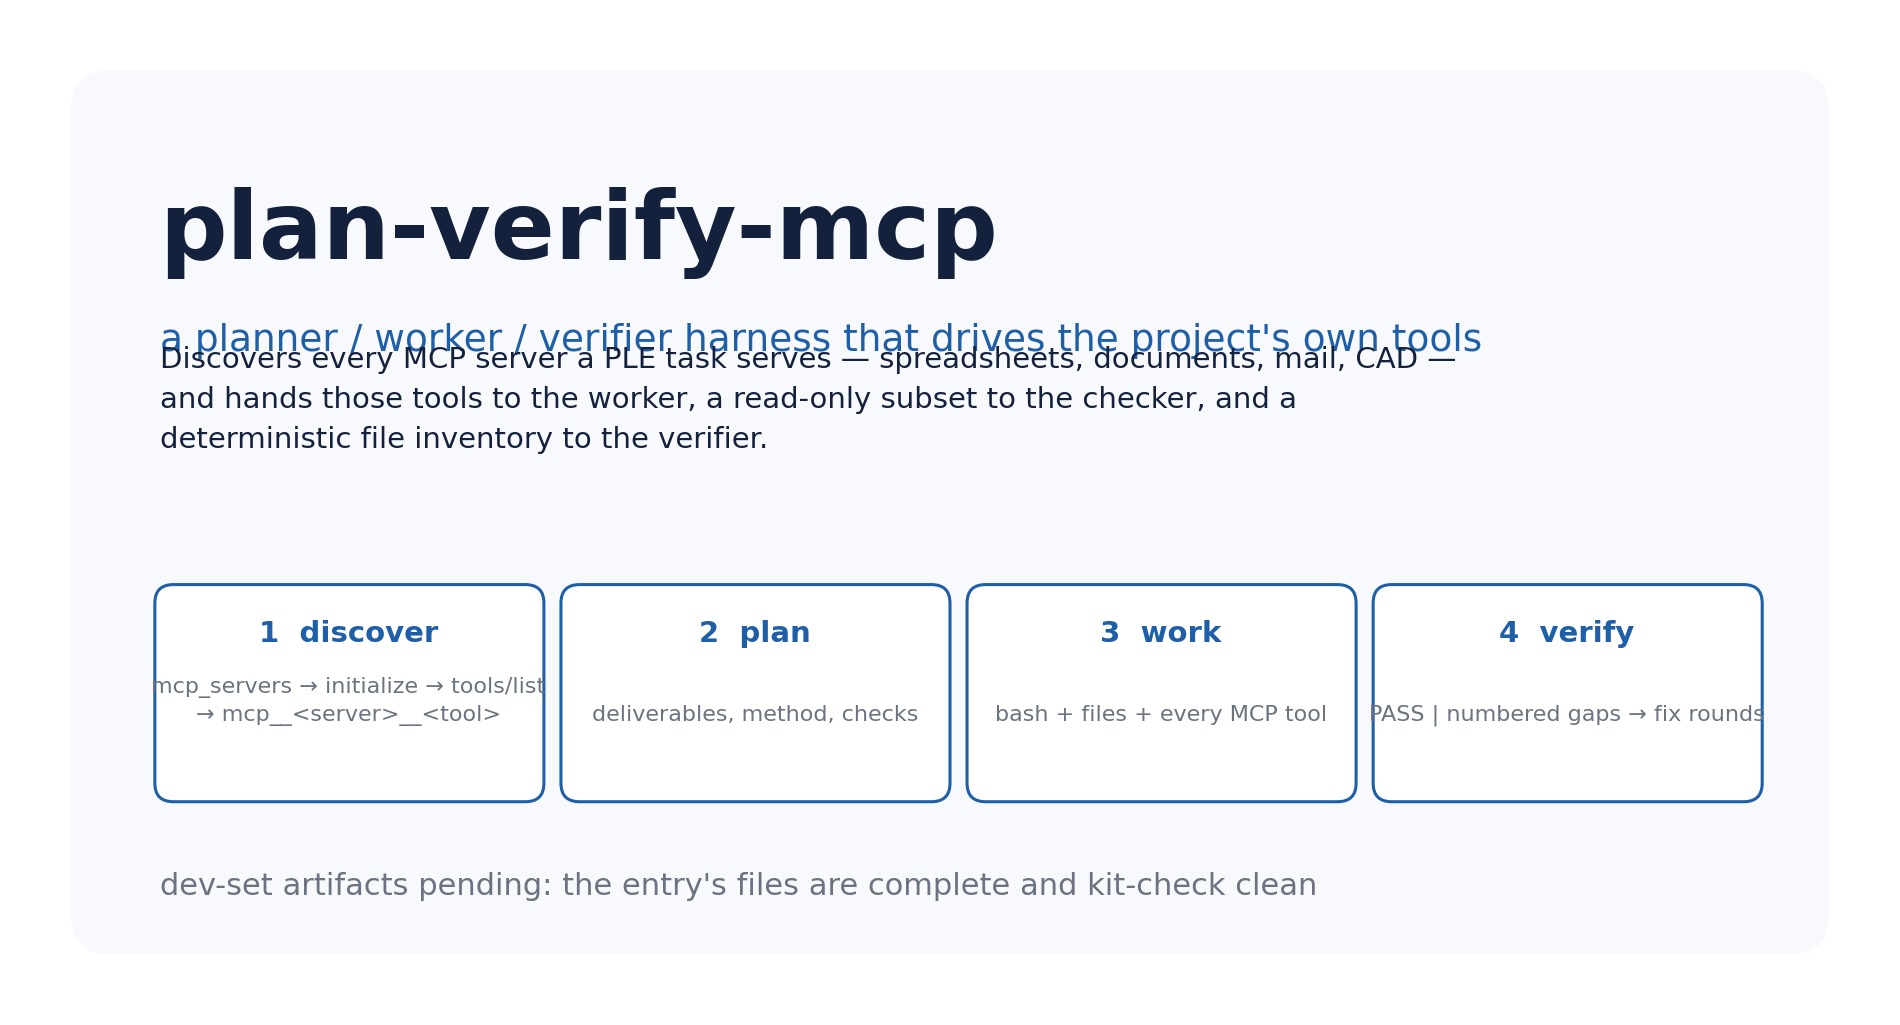
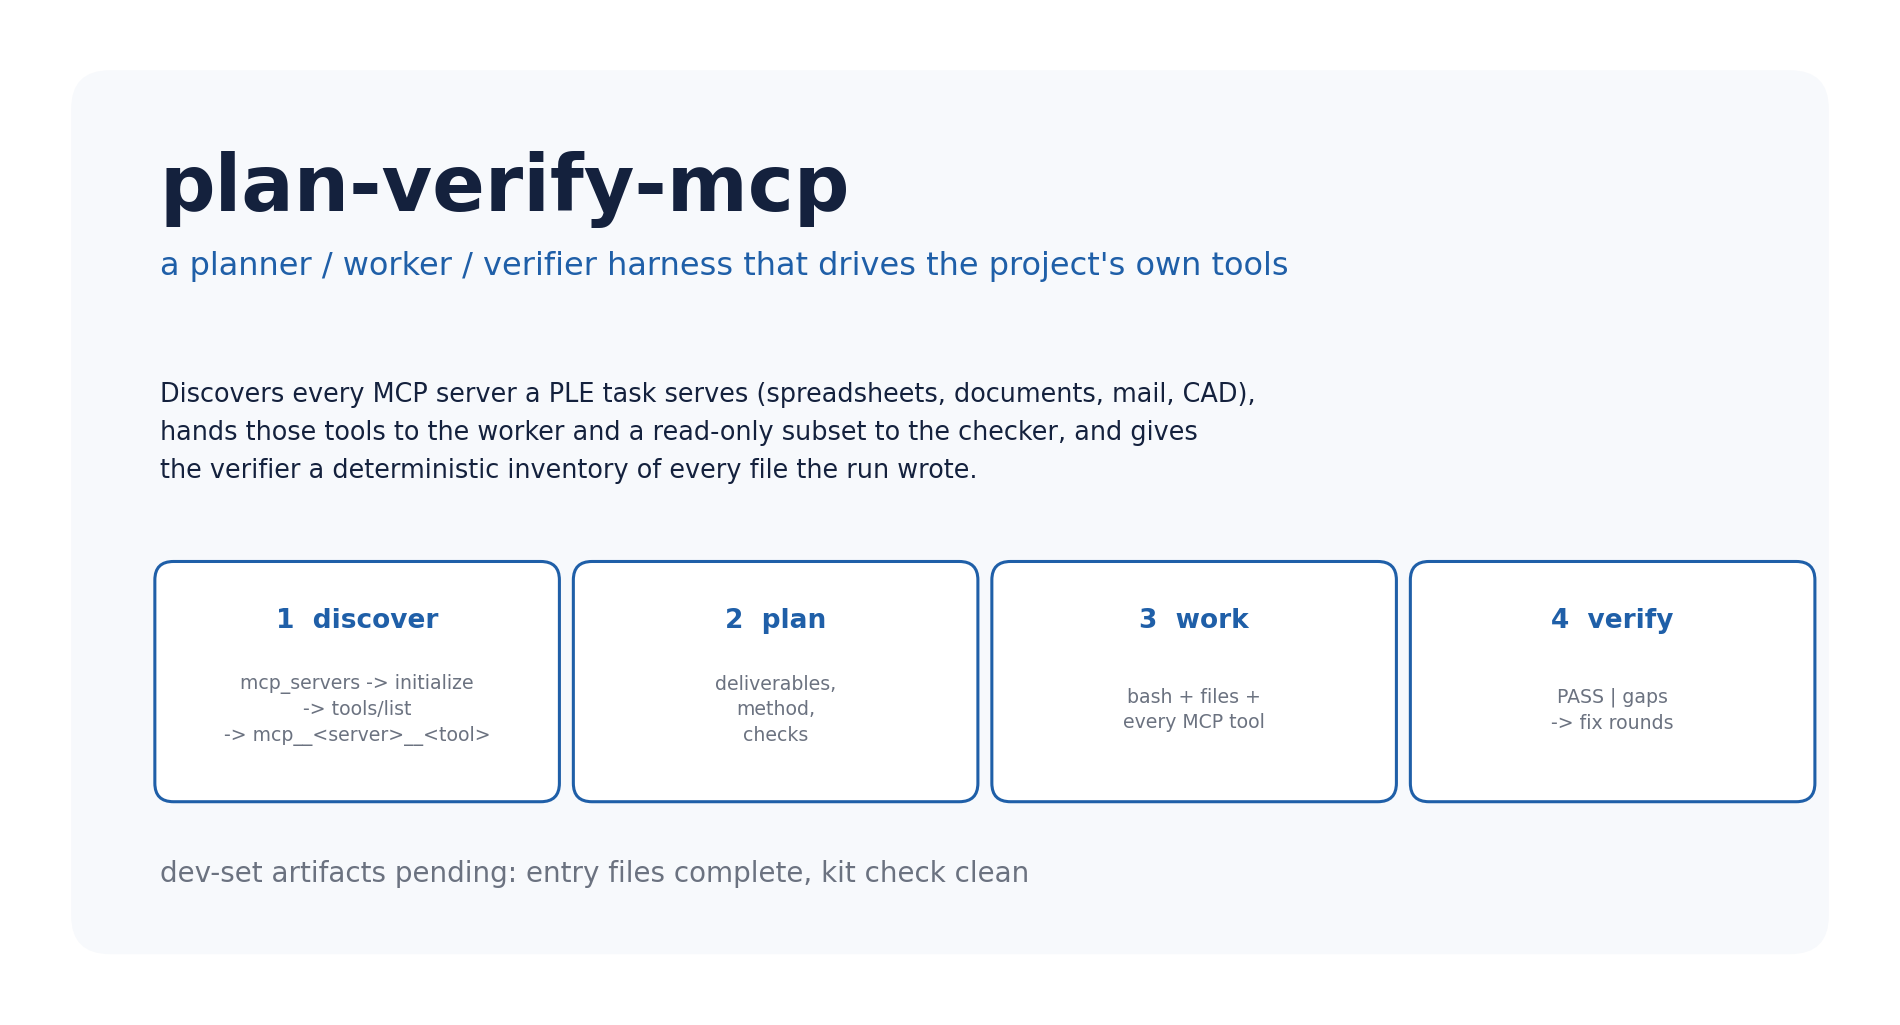
writeup: fix cover layout

diff --git a/writeup/make_cover.py b/writeup/make_cover.py
@@ -73,38 +73,40 @@ def main():
                               boxstyle="round,pad=0.02,rounding_size=0.25",
                               linewidth=0, facecolor="#f7f9fc"))
 
-  ax.text(0.9, 4.85, "plan-verify-mcp", fontsize=34, color=INK, weight="bold")
-  ax.text(0.9, 4.25, "a planner / worker / verifier harness that drives the project's own tools",
-          fontsize=13.5, color=ACCENT)
-  ax.text(0.9, 3.62,
-          "Discovers every MCP server a PLE task serves — spreadsheets, documents, mail, CAD —\n"
-          "and hands those tools to the worker, a read-only subset to the checker, and a\n"
-          "deterministic file inventory to the verifier.",
-          fontsize=10.5, color=INK, linespacing=1.55)
+  ax.text(0.9, 5.30, "plan-verify-mcp", fontsize=28, color=INK, weight="bold", va="center")
+  ax.text(0.9, 4.80, "a planner / worker / verifier harness that drives the project's own tools",
+          fontsize=11.5, color=ACCENT, va="center")
+  ax.text(0.9, 4.05,
+          "Discovers every MCP server a PLE task serves (spreadsheets, documents, mail, CAD),\n"
+          "hands those tools to the worker and a read-only subset to the checker, and gives\n"
+          "the verifier a deterministic inventory of every file the run wrote.",
+          fontsize=9.2, color=INK, linespacing=1.6, va="top")
 
   boxes = [
-      ("1  discover", "mcp_servers → initialize → tools/list\n→ mcp__<server>__<tool>"),
-      ("2  plan", "deliverables, method, checks"),
-      ("3  work", "bash + files + every MCP tool"),
-      ("4  verify", "PASS | numbered gaps → fix rounds"),
+      ("1  discover", "mcp_servers -> initialize\n-> tools/list\n-> mcp__<server>__<tool>"),
+      ("2  plan", "deliverables,\nmethod,\nchecks"),
+      ("3  work", "bash + files +\nevery MCP tool"),
+      ("4  verify", "PASS | gaps\n-> fix rounds"),
   ]
-  x = 0.9
+  x, width, gap = 0.9, 2.55, 0.15
   for title, body in boxes:
-    ax.add_patch(FancyBboxPatch((x, 1.35), 2.45, 1.35,
+    ax.add_patch(FancyBboxPatch((x, 1.35), width, 1.5,
                                 boxstyle="round,pad=0.03,rounding_size=0.12",
                                 linewidth=1.1, edgecolor=ACCENT, facecolor="white"))
-    ax.text(x + 1.22, 2.36, title, ha="center", fontsize=10.5, color=ACCENT, weight="bold")
-    ax.text(x + 1.22, 1.85, body, ha="center", fontsize=8, color=MUTED, linespacing=1.4)
-    x += 2.62
+    ax.text(x + width / 2, 2.50, title, ha="center", va="center", fontsize=9.5,
+            color=ACCENT, weight="bold")
+    ax.text(x + width / 2, 1.92, body, ha="center", va="center", fontsize=6.8,
+            color=MUTED, linespacing=1.45)
+    x += width + gap
 
   nums = dev_numbers(args.root)
   if nums:
     scored, total, mean = nums
-    ax.text(0.9, 0.72, f"dev set: {scored}/{total} tasks scored, mean reward {mean:.3f}",
-            fontsize=11, color=INK)
+    ax.text(0.9, 0.80, f"dev set: {scored}/{total} tasks scored, mean reward {mean:.3f}",
+            fontsize=10, color=INK)
   else:
-    ax.text(0.9, 0.72, "dev-set artifacts pending: the entry's files are complete and kit-check clean",
-            fontsize=11, color=MUTED)
+    ax.text(0.9, 0.80, "dev-set artifacts pending: entry files complete, kit check clean",
+            fontsize=10, color=MUTED)
 
   fig.savefig(out, bbox_inches="tight", facecolor="white")
   plt.close(fig)
